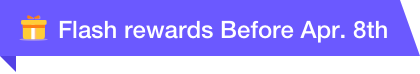
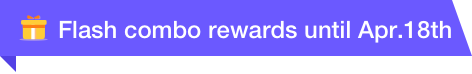
''

diff --git a/components/mining/mining_list.vue b/components/mining/mining_list.vue
@@ -19,7 +19,7 @@
         />
         <img
           class="combo_img"
-          style="width: 210px"
+          style="width: 236px"
           src="~/assets/img/mining/flash_web.png"
           alt=""
           v-if="item.flash"
@@ -147,7 +147,7 @@
       />
       <img
         class="combo_img"
-        style="width: 210px"
+        style="width: 236px"
         src="~/assets/img/mining/flash_web.png"
         alt=""
         v-if="item.flash"
@@ -440,8 +440,8 @@ export default {
           earn: "helmet_mdex",
           earnNum: "two",
           dueDate: "Ongoing",
-          combo: true,
-          // flash: true,
+          combo: false,
+          flash: true,
           info: true,
           earnName: "APY",
           compound: true,
